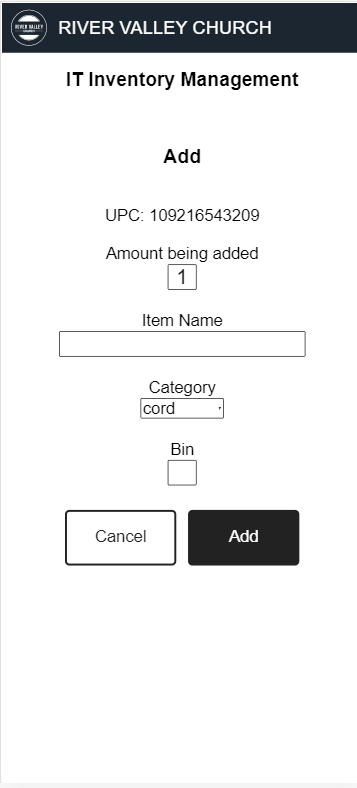
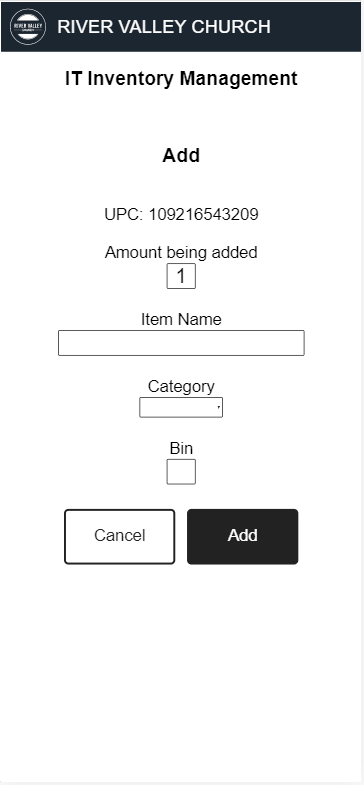
update add-doc with fixed picture and updated info

diff --git a/documentation/add-doc.html b/documentation/add-doc.html
@@ -50,8 +50,8 @@
         </blockquote>
         <br><br>
         <p>
-          The form to add a new item will be partially blank and partially 
-          pre-populated. Change the pre-populated fields as necessary and fill in 
+          The form to add a new item will be mostly blank with only Amount being added 
+          pre-populated. Change the amount as necessary and fill in 
           blank fields with the desired data. Notice that the detected UPC is 
           displayed at the top for the purpose of verifying it was read properly 
           by the scanner.
